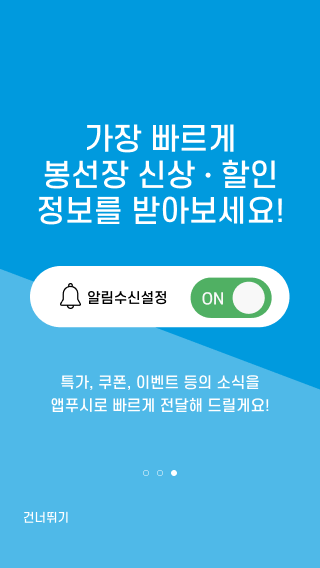
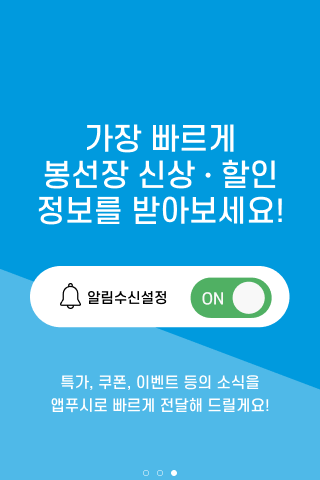
Update onboarding experience and loading screen
Refactor HomePageSkeleton to use a spinner instead of an image, remove unused loading image asset, and adjust the order of onboarding screen slides.

Replit-Commit-Author: Agent
Replit-Commit-Session-Id: 69fd091b-bbcb-440d-b2bc-38c62d9d1b9e
Replit-Commit-Checkpoint-Type: intermediate_checkpoint
Replit-Commit-Event-Id: 8a1486ce-4757-41d5-9237-595f853a236e
Replit-Commit-Screenshot-Url: https://storage.googleapis.com/screenshot-production-us-central1/ee7ea1ce-f859-4b8f-adbd-76e2e1129002/69fd091b-bbcb-440d-b2bc-38c62d9d1b9e/KwkKpjW
Replit-Helium-Checkpoint-Created: true

diff --git a/apps/frontend/src/components/HomePageSkeleton/HomePageSkeleton.css b/apps/frontend/src/components/HomePageSkeleton/HomePageSkeleton.css
@@ -7,12 +7,20 @@
   display: flex;
   justify-content: center;
   align-items: center;
-  background-color: #f5f8fa;
+  background-color: #ffffff;
   z-index: 9998;
 }
 
-.home-skeleton__loading-image {
-  width: 100%;
-  height: 100%;
-  object-fit: cover;
+.home-skeleton__spinner {
+  width: 40px;
+  height: 40px;
+  border: 3px solid #f3f3f3;
+  border-top: 3px solid #3B9BD5;
+  border-radius: 50%;
+  animation: home-skeleton-spin 1s linear infinite;
+}
+
+@keyframes home-skeleton-spin {
+  0% { transform: rotate(0deg); }
+  100% { transform: rotate(360deg); }
 }

diff --git a/apps/frontend/src/components/HomePageSkeleton/HomePageSkeleton.tsx b/apps/frontend/src/components/HomePageSkeleton/HomePageSkeleton.tsx
@@ -1,14 +1,9 @@
-import loadingImage from '../../assets/loading.png';
 import './HomePageSkeleton.css';
 
 export function HomePageSkeleton() {
   return (
     <div className="home-skeleton">
-      <img 
-        src={loadingImage} 
-        alt="로딩 중" 
-        className="home-skeleton__loading-image"
-      />
+      <div className="home-skeleton__spinner" />
     </div>
   );
 }

diff --git a/apps/frontend/src/components/OnboardingScreen/OnboardingScreen.tsx b/apps/frontend/src/components/OnboardingScreen/OnboardingScreen.tsx
@@ -14,9 +14,9 @@ interface OnboardingScreenProps {
 }
 
 const slides = [
-  { id: 1, image: onboarding3, isLast: false },
+  { id: 1, image: onboarding1, isLast: false },
   { id: 2, image: onboarding2, isLast: false },
-  { id: 3, image: onboarding1, isLast: true },
+  { id: 3, image: onboarding3, isLast: true },
 ];
 
 export function OnboardingScreen({ onComplete }: OnboardingScreenProps) {